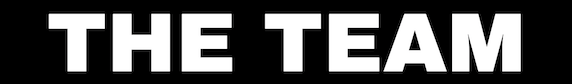
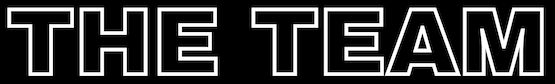
headers

diff --git a/src/components/Features.js b/src/components/Features.js
@@ -3,6 +3,7 @@ import img1 from '../img/wpix-logo.png'
 import img2 from '../img/spectrum.png'
 import img3 from '../img/barclays-logo.jpeg'
 import img4 from '../img/Nassau.png'
+import highlights from '../img/highlights.png'
 
 
 
@@ -24,7 +25,12 @@ const Features = () => {
 
   return (
     <div className='container-fluid'>
-      <h2 className="headers">HIGHLIGHTS</h2>
+      <center>
+        <hr />
+      <img src={highlights} />
+      <hr />
+      </center> <br />
+      {/* <h2 className="headers">HIGHLIGHTS</h2> */}
       <div className='row'>
     {teamData.map((person, index) => (
       <div key={index} className='col-sm'>

diff --git a/src/components/Team.js b/src/components/Team.js
@@ -36,8 +36,8 @@ const Team = () => {
   return (
     <div className='container-fluid'>
       <center>
-      {/* <img src={team}/> */}
-      <h1 className='headers'>THE TEAM</h1>
+        <hr />
+      <img src={team}/>
       </center>
       <hr />
       <div className='row'>

diff --git a/src/App.css b/src/App.css
@@ -10,3 +10,7 @@
   font-family: 'Montserrat', sans-serif;
   color: white;
 }
+
+.container-fluid {
+  margin-bottom: 75px;
+}
